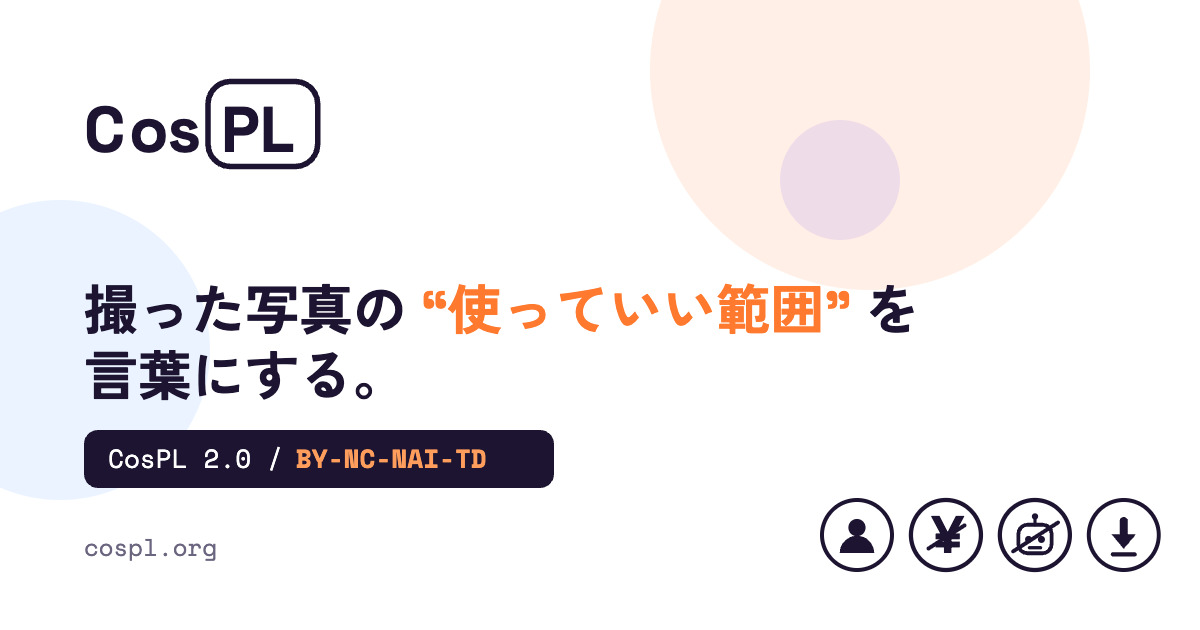
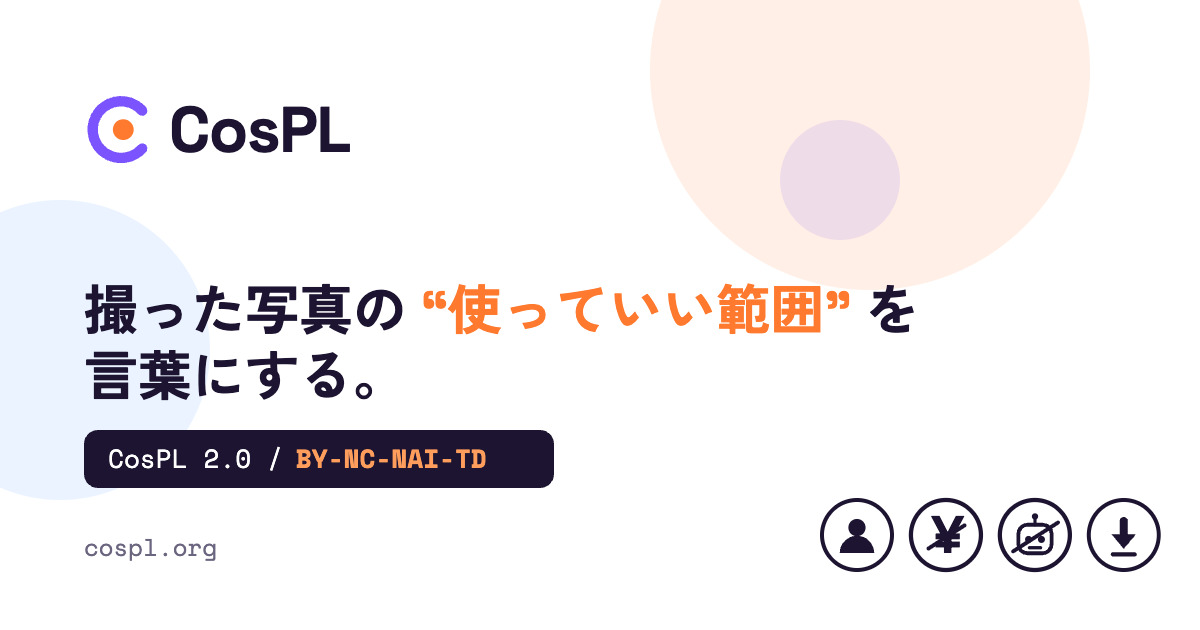
feat(brand): アイコンと OGP を新しいマークで生成し直す
just images が src/brand/mark.ts を bundle して favicon.svg と maskable.svg を書き出し、apple-touch は一時 SVG から 180px で描く。OGP は旧ワードマークを brand:logo の目印に置き換え、その間を logoGroup の出力で埋める。
生成物と mark.ts の一致は test/brand/generated.test.ts で固定する。未参照の icons/mark.svg は削除し、OGP の ?v を 2.0-brand に変えて X のカードキャッシュを切り替える。

Changed region(s): [[0.0617, 0.1206, 0.3083, 0.2714]]

diff --git a/test/brand/generated.test.ts b/test/brand/generated.test.ts
@@ -1,0 +1,48 @@
+import { describe, expect, test } from "vitest";
+// workerd では node:fs が使えないため Vite の ?raw で本文を文字列として埋め込む。
+import faviconRaw from "../../public/favicon.svg?raw";
+import maskableRaw from "../../public/icons/maskable.svg?raw";
+import landscapeRaw from "../../public/ogp/ogp-landscape.svg?raw";
+import squareRaw from "../../public/ogp/ogp-square.svg?raw";
+import { appleTouchSvg, faviconSvg, logoGroup, maskableSvg, PALETTE } from "../../src/brand/mark";
+
+// 生成物が src/brand/mark.ts と食い違わないことを固定する。食い違ったら `just images` を実行する。
+describe("生成された画像マスターは mark.ts と一致する", () => {
+  test("favicon.svg は faviconSvg() と完全一致する", () => {
+    expect(faviconRaw.trimEnd()).toBe(faviconSvg());
+  });
+
+  test("maskable.svg は maskableSvg() と完全一致する", () => {
+    expect(maskableRaw.trimEnd()).toBe(maskableSvg());
+  });
+
+  test("apple-touch は favicon と別形（角丸なし・ダークなし）である", () => {
+    expect(appleTouchSvg()).not.toContain("<style>");
+    expect(appleTouchSvg()).not.toContain("rx=");
+  });
+});
+
+const START = "<!-- brand:logo -->";
+const END = "<!-- /brand:logo -->";
+
+const between = (svg: string): string | undefined => {
+  const starts = svg.split(START).length - 1;
+  const ends = svg.split(END).length - 1;
+  if (starts !== 1 || ends !== 1) return undefined;
+  const from = svg.indexOf(START) + START.length;
+  return svg.slice(from, svg.indexOf(END));
+};
+
+// ロゴの位置は旧ワードマーク（基線 x / y・文字サイズ）に合わせる。
+describe.each([
+  { name: "ogp-landscape", raw: landscapeRaw, x: 84, baseline: 152, fontSize: 64 },
+  { name: "ogp-square", raw: squareRaw, x: 96, baseline: 222, fontSize: 84 },
+])("$name のロゴ", ({ raw, x, baseline, fontSize }) => {
+  test("目印をちょうど 1 組持つ", () => {
+    expect(between(raw)).toBeDefined();
+  });
+
+  test("目印の間は logoGroup() の出力と一致する", () => {
+    expect(between(raw)).toBe(logoGroup(x, baseline, fontSize, PALETTE.logoLight));
+  });
+});

diff --git a/index.html b/index.html
@@ -15,14 +15,14 @@
 <meta property="og:url" content="https://cospl.org/">
 <meta property="og:title" content="CosPL — Cosplay Public License">
 <meta property="og:description" content="コスプレ撮影における、撮影者とモデルのための利用許諾テンプレート。">
-<meta property="og:image" content="https://cospl.org/ogp/ogp-landscape.jpg?v=2.0">
+<meta property="og:image" content="https://cospl.org/ogp/ogp-landscape.jpg?v=2.0-brand">
 <meta property="og:image:width" content="1200">
 <meta property="og:image:height" content="630">
 <meta property="og:image:alt" content="CosPL — 撮った写真の「使っていい範囲」を、言葉にする。">
 <meta name="twitter:card" content="summary_large_image">
 <meta name="twitter:title" content="CosPL — Cosplay Public License">
 <meta name="twitter:description" content="コスプレ撮影における、撮影者とモデルのための利用許諾テンプレート。">
-<meta name="twitter:image" content="https://cospl.org/ogp/ogp-landscape.jpg?v=2.0">
+<meta name="twitter:image" content="https://cospl.org/ogp/ogp-landscape.jpg?v=2.0-brand">
 <meta name="twitter:image:alt" content="CosPL — 撮った写真の「使っていい範囲」を、言葉にする。">
 </head>
 <body>
